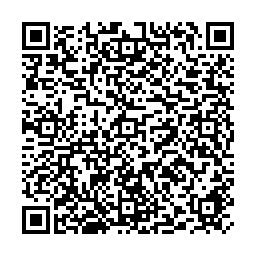
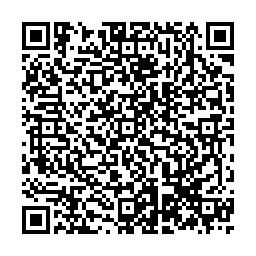
Fixing QR code loading

Changed region(s): [[0.0625, 0.0625, 0.9375, 0.9375]]

diff --git a/src/QRCode/QRCodeGenerator.java b/src/QRCode/QRCodeGenerator.java
@@ -19,6 +19,8 @@ public class QRCodeGenerator {
     private final int black;
     private final int lineBound;
 
+    private boolean isComplete;
+
     public QRCodeGenerator(){
         this.width = 256;
         this.height = 256;
@@ -42,6 +44,7 @@ public class QRCodeGenerator {
     //This will generate one QR code, and throws an expression if the lines are over the limit
     public void writeQRList(ArrayList<String> list, String filename) throws NonValidQRCodeMessageException {
         String path = "";
+        isComplete = false;
         for(String direction: list){
             String endString = ".";
             if(!((list.indexOf(direction) + 1) == list.size()))
@@ -49,6 +52,7 @@ public class QRCodeGenerator {
             path += direction + endString;
         }
         writeQRCode(path, filename);
+        isComplete = true;
     }
 
     //This writes a QR code from a string. Call this if you want to print something basic.
@@ -77,6 +81,9 @@ public class QRCodeGenerator {
             // TODO Auto-generated catch block
             e.printStackTrace();
         }
+    }
+    public boolean isComplete(){
+        return this.isComplete;
     }
 
     public static void main(String[] args){

diff --git a/src/controllers/PathController.java b/src/controllers/PathController.java
@@ -43,6 +43,7 @@ import javafx.animation.PathTransition;
 
 import ui.*;
 
+import java.io.File;
 import java.util.*;
 
 public class PathController implements ControllableScreen, Observer{
@@ -555,7 +556,14 @@ public class PathController implements ControllableScreen, Observer{
         try {
             qr.writeQRList(directions, "src/images/qr");
             System.out.println("QR Success");
-            qrImageView.setImage(new Image("/images/qr.jpg"));
+            while(!qr.isComplete()){
+                System.out.println("Waiting on qr");
+            }
+
+            File f = new File("/image/qr/jpg");
+            System.out.println("File" + f.getParent() + ", " + f.getParentFile() );
+
+            qrImageView.setImage(new Image("file:src/images/qr.jpg"));
         }
         catch (NonValidQRCodeMessageException e){
             System.out.println("QR too long");
